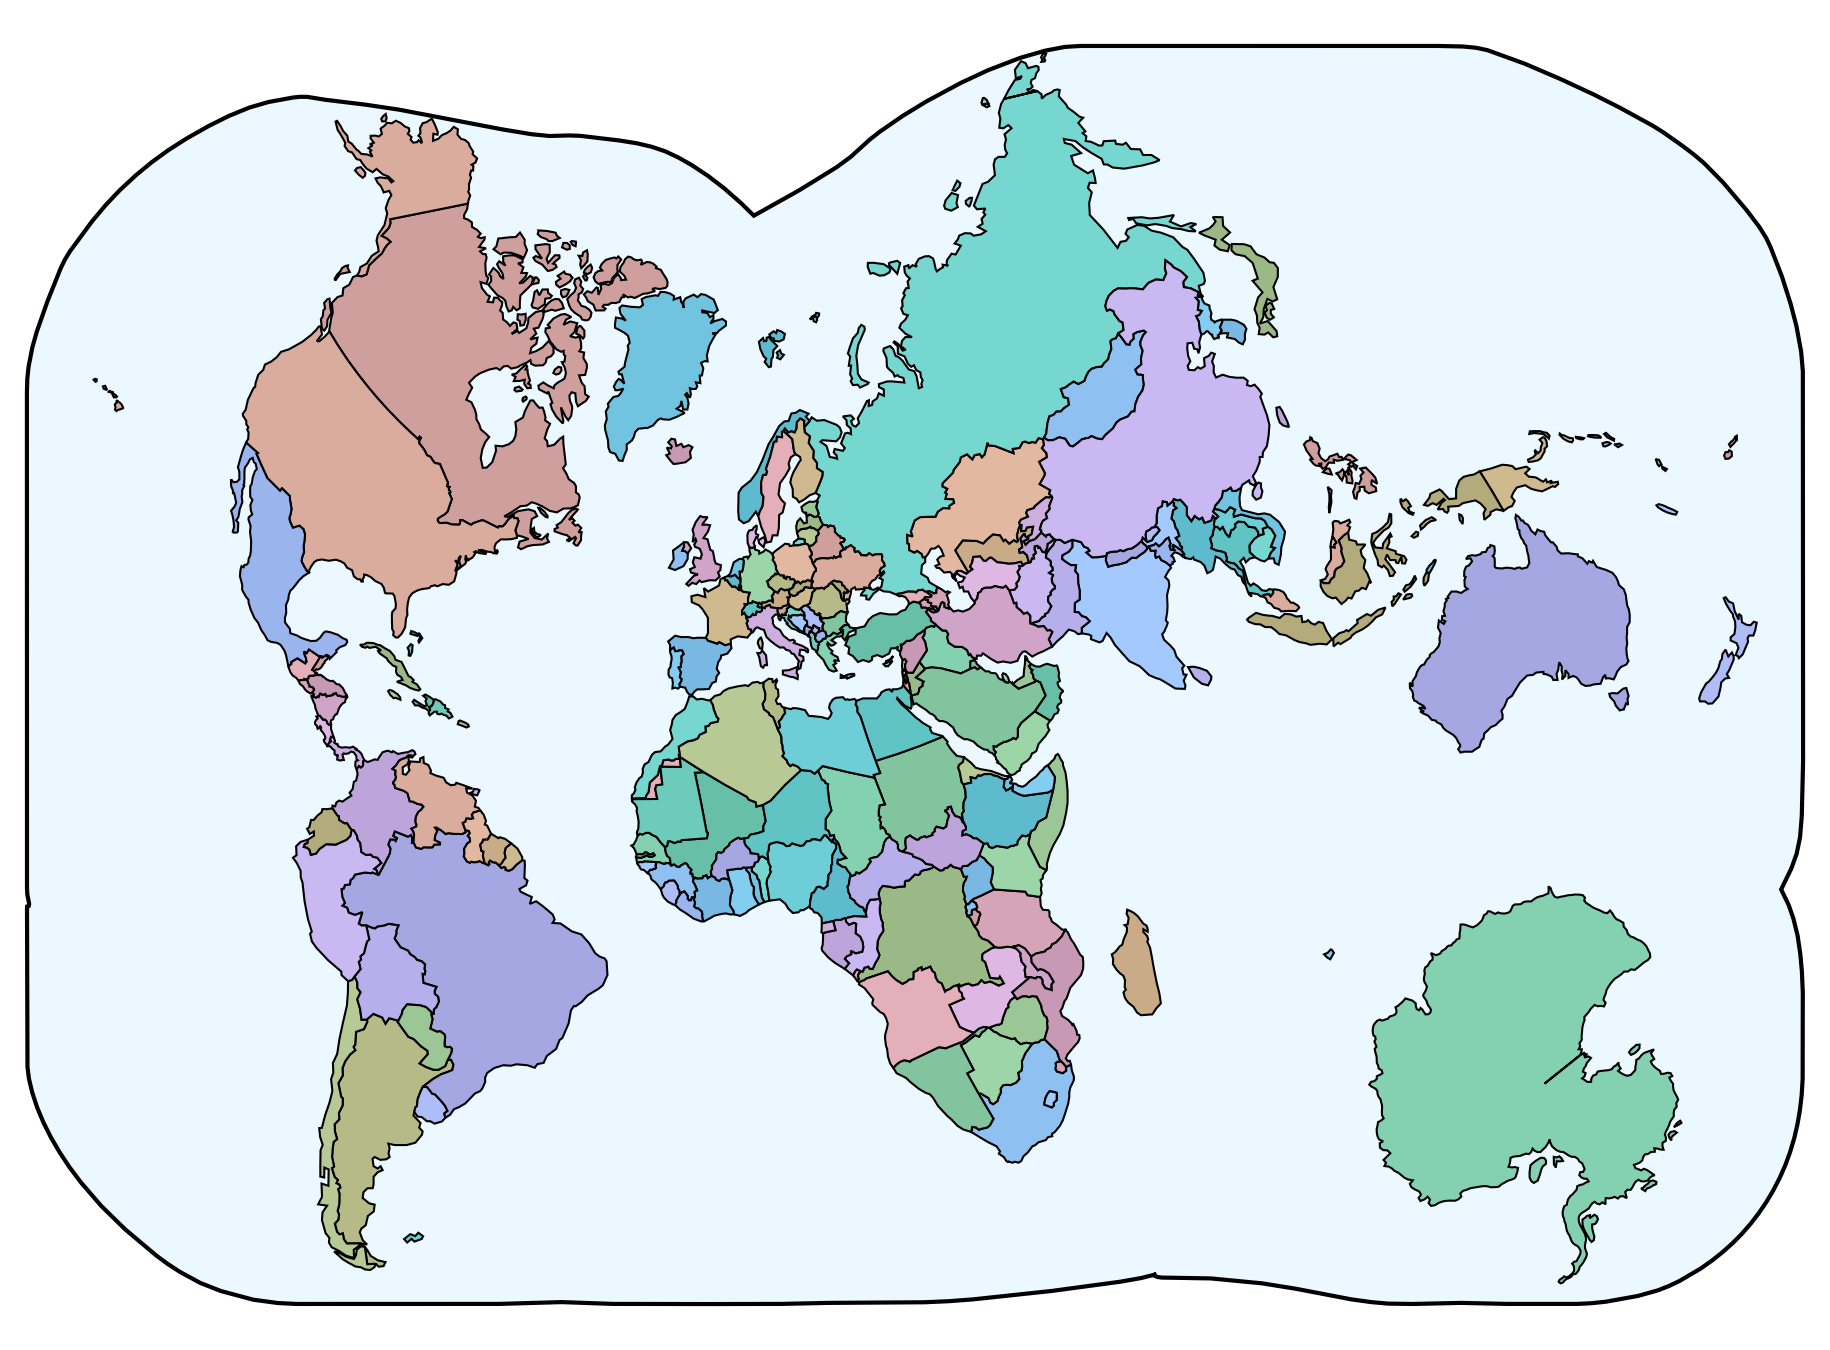
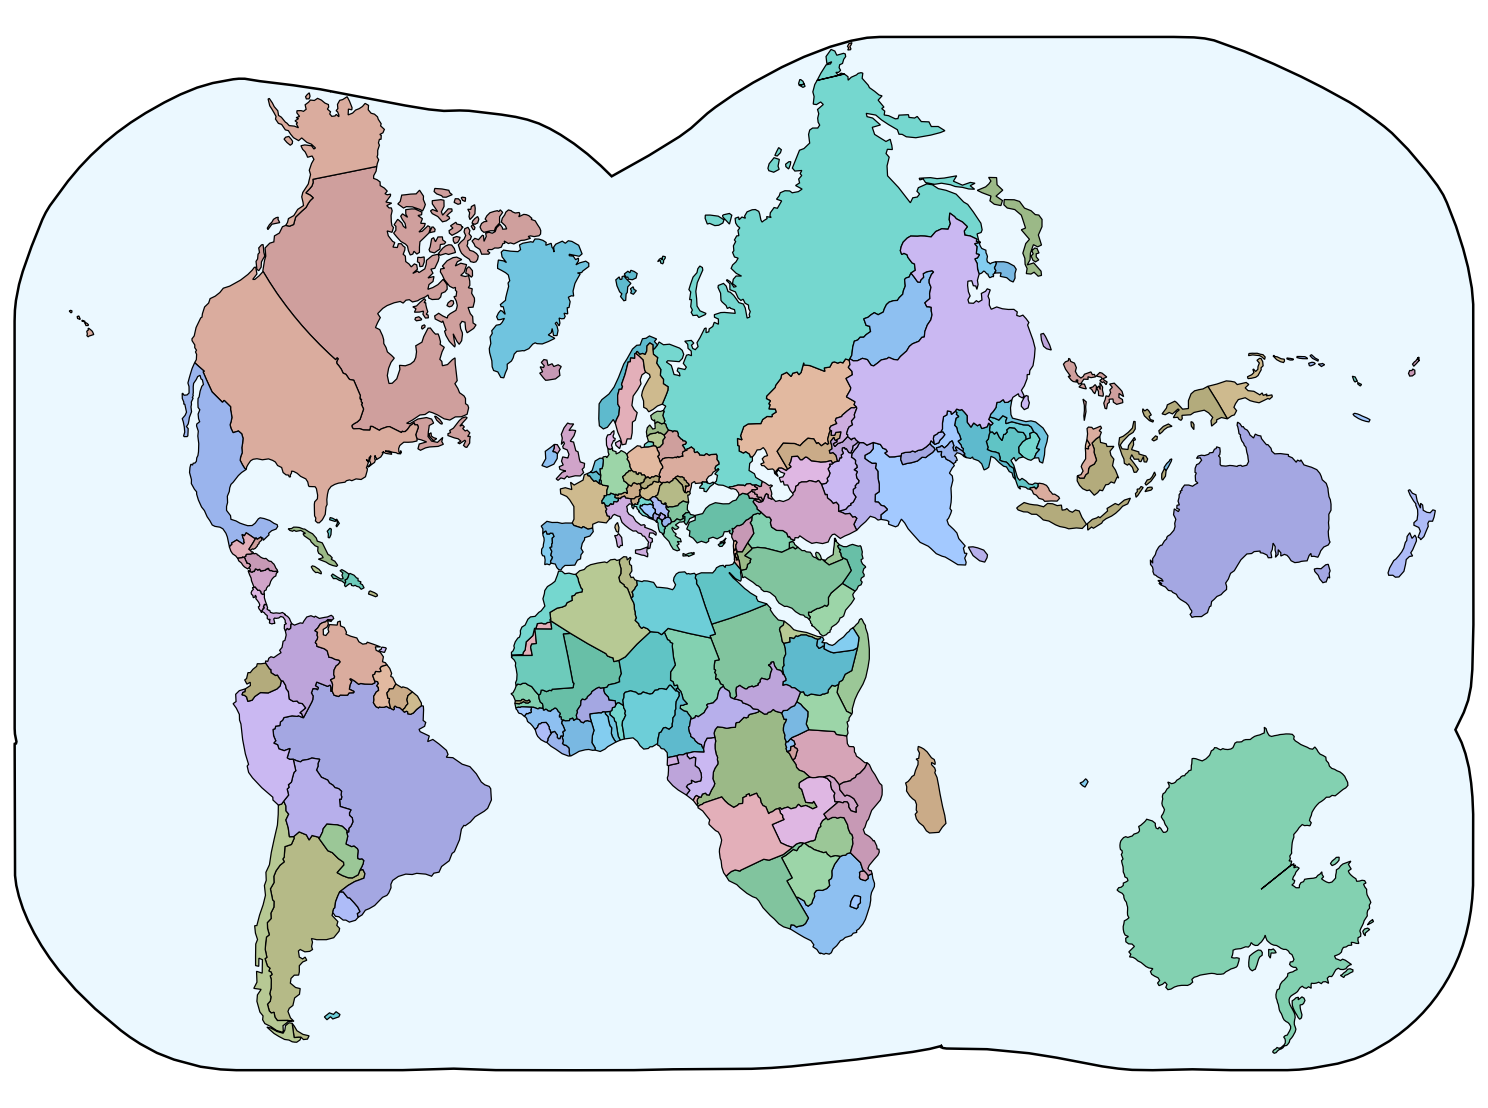
map adjustments
mainly, I had to manually fix the zordering, and a bug where the coastlines of the ocean map were much too thick.

diff --git a/src/elastik.py b/src/elastik.py
@@ -39,12 +39,12 @@ def create_example_elastik_maps():
 	           ),
 	           border_style=dict(
 		           edgecolor="#000",
-		           linewidth=1.0,
+		           linewidth=0.6,
 	           ),
 	           data=[
 		           ("ne_110m_admin_0_countries", dict(
 			           edgecolor="#000",
-			           linewidth=0.5,
+			           linewidth=0.3,
 			           facecolor=[
 				           "#c799b5", "#d6a4b7", "#e3afb9", "#cf9f9d", "#daac9e", "#e2b9a0",
 				           "#caab88", "#ceba8e", "#b3ab7c", "#b5ba87", "#b7c994", "#9bb987",
@@ -147,17 +147,17 @@ def create_example_elastik_maps():
 			           edgecolor="none",
 		           )),
 		           ("ne_50m_coastline", dict(
-			           color="#007",
-			           linewidth=0.15,
+			           color="#009",
+			           linewidth=0.2,
 		           )),
 		           ("ne_50m_rivers_lake_centerlines_scale_rank", dict(
-			           color="#007",
+			           color="#009",
 			           linewidth=0,
 		           )),
-		           ("ne_50m_lakes", dict(
+		           ("ne_110m_lakes", dict(
 			           facecolor="#8bf3f9",
-			           edgecolor="#007",
-			           linewidth=0.15,
+			           edgecolor="#009",
+			           linewidth=0.2,
 		           )),
 	           ])
 
@@ -179,19 +179,22 @@ def create_map(name: str, projection: str,
 
 	ax.fill(border["x"], border["y"], edgecolor="none", **background_style)
 
-	for data_name, style in data:
+	for i, (data_name, style) in enumerate(data):
+		print(f"adding {data_name} to the map...")
+		zorder = 1 + i
 		multiple_colors = "facecolor" in style and type(style["facecolor"]) is list
+		multiple_widths = "linewidth" in style and style["linewidth"] == 0
 		unprojected_data, closed = load_geographic_data(data_name)
 		projected_data = project(unprojected_data, sections)
 		projected_data = cut_lines_that_cross_interruptions(projected_data, closed)
 		if closed:
 			for category, width, lines in projected_data:
-				codes: list[int] = []
-				points: list[tuple[float, float]] = []
 				feature_specific_style = {**style}
 				if multiple_colors:
 					color_index = category%len(style["facecolor"])
 					feature_specific_style["facecolor"] = style["facecolor"][color_index]
+				points: list[tuple[float, float]] = []
+				codes: list[int] = []
 				for line in lines:
 					for k, point in enumerate(line):
 						points.append((point["x"], point["y"]))
@@ -199,20 +202,21 @@ def create_map(name: str, projection: str,
 					points.append((nan, nan))
 					codes.append(Path.CLOSEPOLY)
 				path = Path(points, codes)  # type: ignore
-				patch = PathPatch(path, **feature_specific_style)
+				patch = PathPatch(path, zorder=zorder, **feature_specific_style)
 				ax.add_patch(patch)
 		else:
 			for category, width, lines in projected_data:
-				feature_specific_style = {**style, **{"linewidth": width}}
+				feature_specific_style = {**style}
+				if multiple_widths:
+					feature_specific_style["linewidth"] = width
 				for line in lines:
-					ax.plot(line["x"], line["y"], **feature_specific_style)
+					ax.plot(line["x"], line["y"], zorder=zorder, **feature_specific_style)
 
 	ax.fill(border["x"], border["y"], facecolor="none", **border_style)
 
 	ax.axis("equal")
 	ax.margins(.01)
 	ax.axis("off")
-	fig.tight_layout()
 	fig.savefig(f"../examples/{name}.png", dpi=300,
 	            bbox_inches="tight", pad_inches=0)
 	print(f"saved the {name} projection!")
